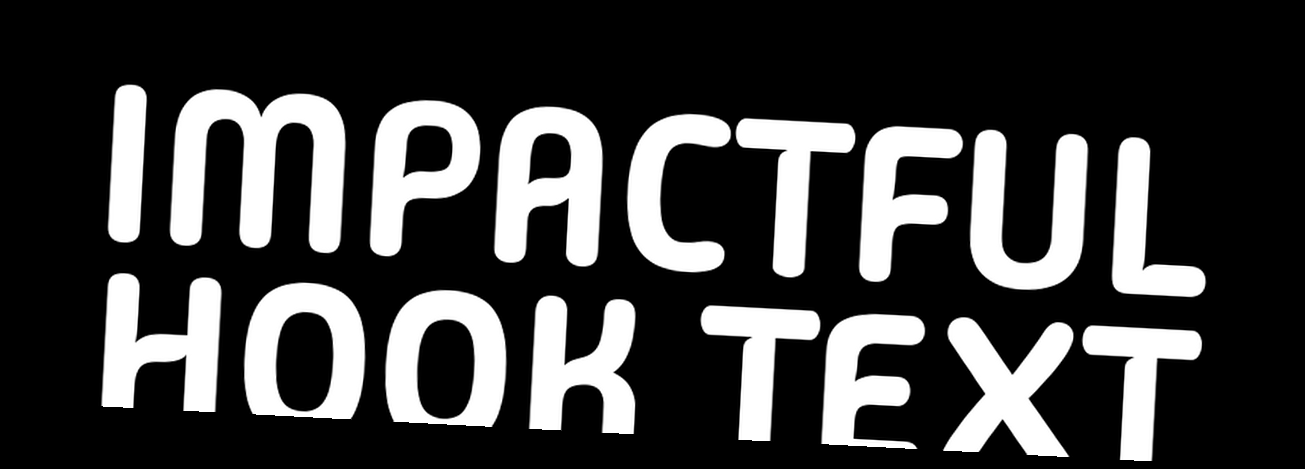
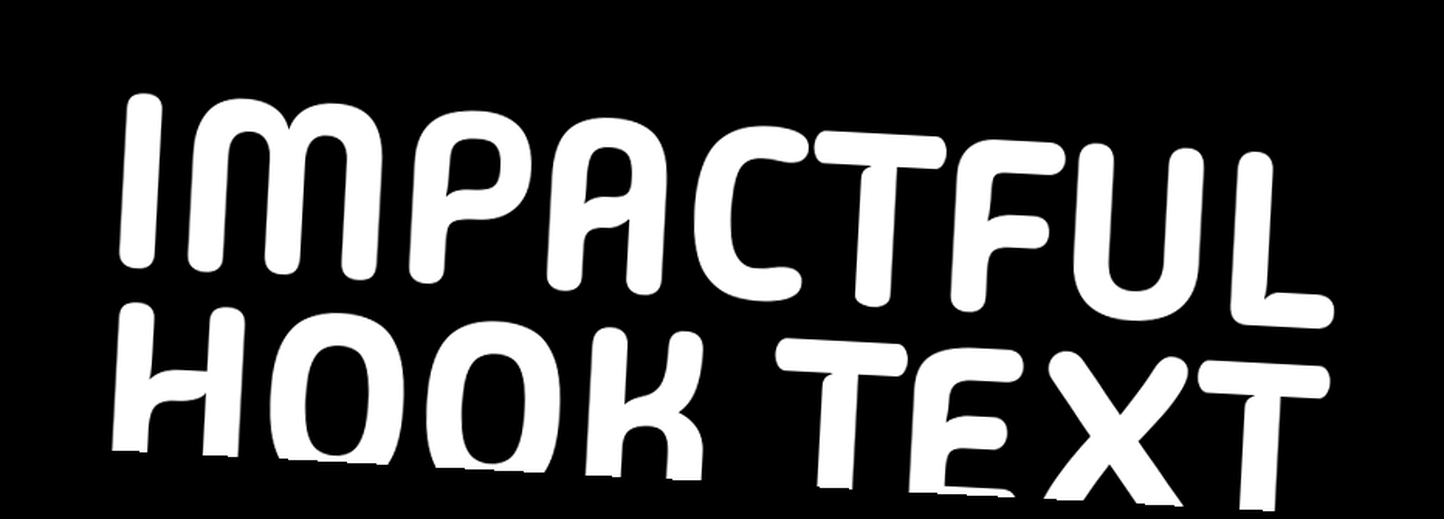
Implement 2026 trend-based design style for auto video short generator (#44)
- Updated `videoProcess/Styling.py` with:
    - `apply_dynamic_cuts`: Alternates flips and zooms for "fast clean cuts".
    - `create_progress_bar`: Modern neon progress indicator.
    - Enhanced `create_hook_clip` with aggressive vibrate scaling.
    - Refined `create_gradient_glow` with more dynamic temporal pulse.
- Integrated new styling effects into `main.py` and `produce_short.py`.
- Updated `main.py` hook logic to use high-impact engagement text.
- Verified changes with `scripts/verify_2026_style.py` and benchmarks.
- Fixed style issues with Black.

diff --git a/videoProcess/Styling.py b/videoProcess/Styling.py
@@ -368,9 +368,9 @@ def create_gradient_glow(size, duration, color=(200, 200, 255), opacity=0.2):
     # (MoviePy 1.0.3 set_opacity doesn't support functions)
     def pulse_mask(gf, t):
         mask_frame = gf(t)
-        # 2026 style: Breathing pulse (0.8 to 1.0 opacity oscillation)
-        factor = 0.9 + 0.1 * math.sin(t * 3)
-        return mask_frame * factor
+        # 2026 style: More dynamic Breathing pulse (0.7 to 1.1 opacity oscillation)
+        factor = 0.9 + 0.2 * math.sin(t * 4)
+        return np.clip(mask_frame * factor, 0, 1)
 
     if glow_clip.mask:
         glow_clip.mask = glow_clip.mask.fl(pulse_mask)
@@ -542,10 +542,77 @@ def create_hook_clip(
     # Performance: Aggressive kinetic scaling (exponential decay with cosine oscillation)
     # Constants pre-calculated for the temporal lambda
     def hook_scale(t):
-        # Snappier oscillation for 2026 'vibrate' feel
-        return 1.0 + 0.4 * math.exp(-8 * t) * math.cos(15 * t)
+        # 2026 Trend: Even snappier "vibrate" oscillation for high engagement
+        return (
+            1.1 + 0.45 * math.exp(-10 * t) * math.cos(20 * t) + 0.05 * math.sin(5 * t)
+        )
 
     return hook.resize(hook_scale)
+
+
+def create_progress_bar(size, duration, color=(0, 255, 0), height=8):
+    """Creates a modern neon progress bar at the bottom of the video (2026 trend)."""
+    w, h = size
+
+    def make_frame(t):
+        # Create a black frame with 0 alpha (transparent)
+        frame = np.zeros((h, w, 3), dtype="uint8")
+        progress = min(t / duration, 1.0)
+        bar_w = int(w * progress)
+        if bar_w > 0:
+            # Draw progress bar at the very bottom
+            frame[h - height : h, 0:bar_w] = color
+        return frame
+
+    def make_mask(t):
+        mask = np.zeros((h, w), dtype="float32")
+        progress = min(t / duration, 1.0)
+        bar_w = int(w * progress)
+        if bar_w > 0:
+            mask[h - height : h, 0:bar_w] = 1.0
+        return mask
+
+    from moviepy.editor import VideoClip
+
+    bar_clip = VideoClip(make_frame, duration=duration).set_mask(
+        VideoClip(make_mask, ismask=True, duration=duration)
+    )
+    bar_clip.size = (w, h)
+    return bar_clip
+
+
+def apply_dynamic_cuts(clip, segment_duration=3.0):
+    """Creates 'fast clean cuts' by alternating flips and zoom levels (2026 trend)."""
+    duration = clip.duration
+    w, h = clip.size
+    num_segments = int(duration // segment_duration) + 1
+    clips = []
+
+    for i in range(num_segments):
+        start = i * segment_duration
+        end = min((i + 1) * segment_duration, duration)
+        if start >= duration:
+            break
+
+        segment = clip.subclip(start, end)
+
+        # Alternating effects for 'dynamic' feel
+        if i % 2 == 1:
+            # Flip horizontally
+            segment = segment.fx(lambda c: c.margin(left=0).mirror_x())
+
+        if i % 3 == 0:
+            # Subtle extra zoom + ensure size matches original for clean concatenation
+            segment = segment.resize(1.1).crop(
+                x_center=w / 2, y_center=h / 2, width=w, height=h
+            )
+
+        clips.append(segment)
+
+    from moviepy.editor import concatenate_videoclips
+
+    # Use method="chain" to keep original sizes (which we ensured) and avoid complex composition
+    return concatenate_videoclips(clips, method="chain")
 
 
 def build_modern_captions(

diff --git a/main.py b/main.py
@@ -37,6 +37,8 @@ from videoProcess.Styling import (
     apply_zoom,
     darken_clip,
     create_flash_transition,
+    create_progress_bar,
+    apply_dynamic_cuts,
 )
 
 from email.mime.multipart import MIMEMultipart
@@ -506,8 +508,12 @@ try:
     video_clip = darken_clip(video_clip, factor=0.45)
     video_clip = apply_zoom(video_clip, total_duration)
 
-    # 2-second hook title card
-    hook_clip = create_hook_clip(word.upper(), video_size=resolution)
+    # 2026 Style: Apply dynamic cuts for "fast clean cuts" feel
+    video_clip = apply_dynamic_cuts(video_clip, segment_duration=2.5)
+
+    # 2-second hook title card - 2026 High-impact Engagement
+    hook_text = f"MIND-BLOWING {word.upper()}!" if len(word) < 10 else "DID YOU KNOW?"
+    hook_clip = create_hook_clip(hook_text, video_size=resolution)
 
     # Grain, Gradient Glow, and Vignette Overlays
     noise_overlay = create_noise_overlay(resolution, total_duration, opacity=0.12)
@@ -518,6 +524,9 @@ try:
         opacity=0.15,
     )
     vignette_overlay = create_vignette(resolution, total_duration, opacity=0.5)
+
+    # 2026 Style: Progress Bar
+    progress_bar = create_progress_bar(resolution, total_duration, color=(0, 255, 0))
 
     # 2026 Style: White flash transition at the end of the hook (2s)
     flash = create_flash_transition(resolution).set_start(2.0)
@@ -555,6 +564,7 @@ try:
             vignette_overlay,
             hook_clip,
             flash,
+            progress_bar,
         ]
         + text_clips,
         size=video_clip.size,

diff --git a/produce_short.py b/produce_short.py
@@ -32,6 +32,8 @@ from videoProcess.Styling import (
     darken_clip,
     create_flash_transition,
     create_vignette,
+    create_progress_bar,
+    apply_dynamic_cuts,
 )
 
 CLIENT_ID = "553209643758-dn4375pj94hssfcipff2e1kn8eeqoprr.apps.googleusercontent.com"
@@ -95,6 +97,9 @@ def produce_short(
 
     background_clip = concatenate_videoclips([bg_q, bg_a], method="chain")
 
+    # 2026 Style: Apply dynamic cuts for "fast clean cuts" feel
+    background_clip = apply_dynamic_cuts(background_clip, segment_duration=2.5)
+
     music_duration = audio_clip.duration
     available_music_time = max(1, music_duration - full_question_duration)
     music_start_time = max(
@@ -121,6 +126,11 @@ def produce_short(
     # 2-second high-impact hook
     hook_clip = create_hook_clip("TRIVIA TIME!", video_size=resolution, font=font)
 
+    # 2026 Style: Progress Bar
+    progress_bar = create_progress_bar(
+        resolution, full_question_duration, color=(0, 255, 0)
+    )
+
     # Initial overlays
     clips = [
         background_clip,
@@ -128,6 +138,7 @@ def produce_short(
         noise_overlay,
         vignette_overlay,
         hook_clip,
+        progress_bar,
     ]
 
     # ✅ Display the selected question - 2026 Modern Caption Style (Word-by-word)
